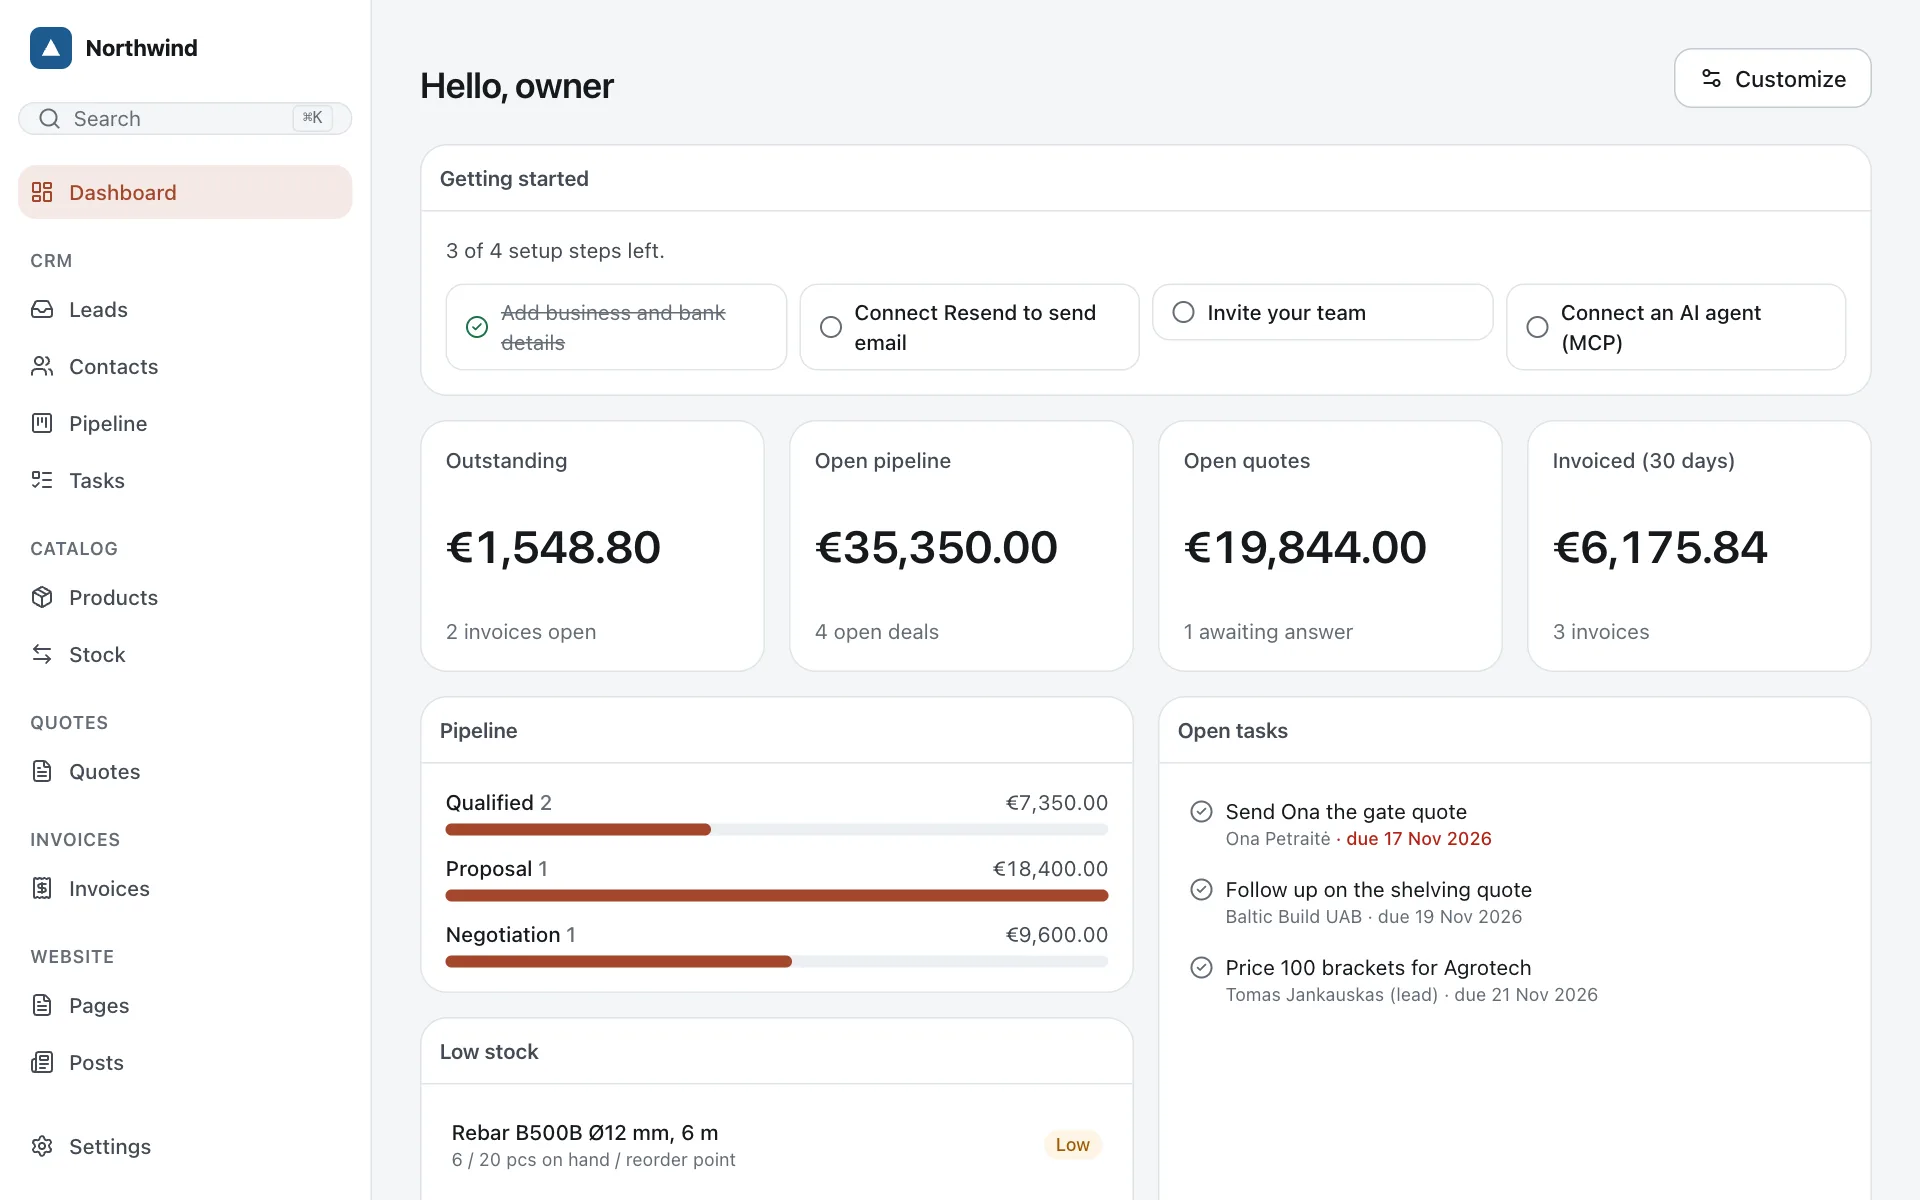
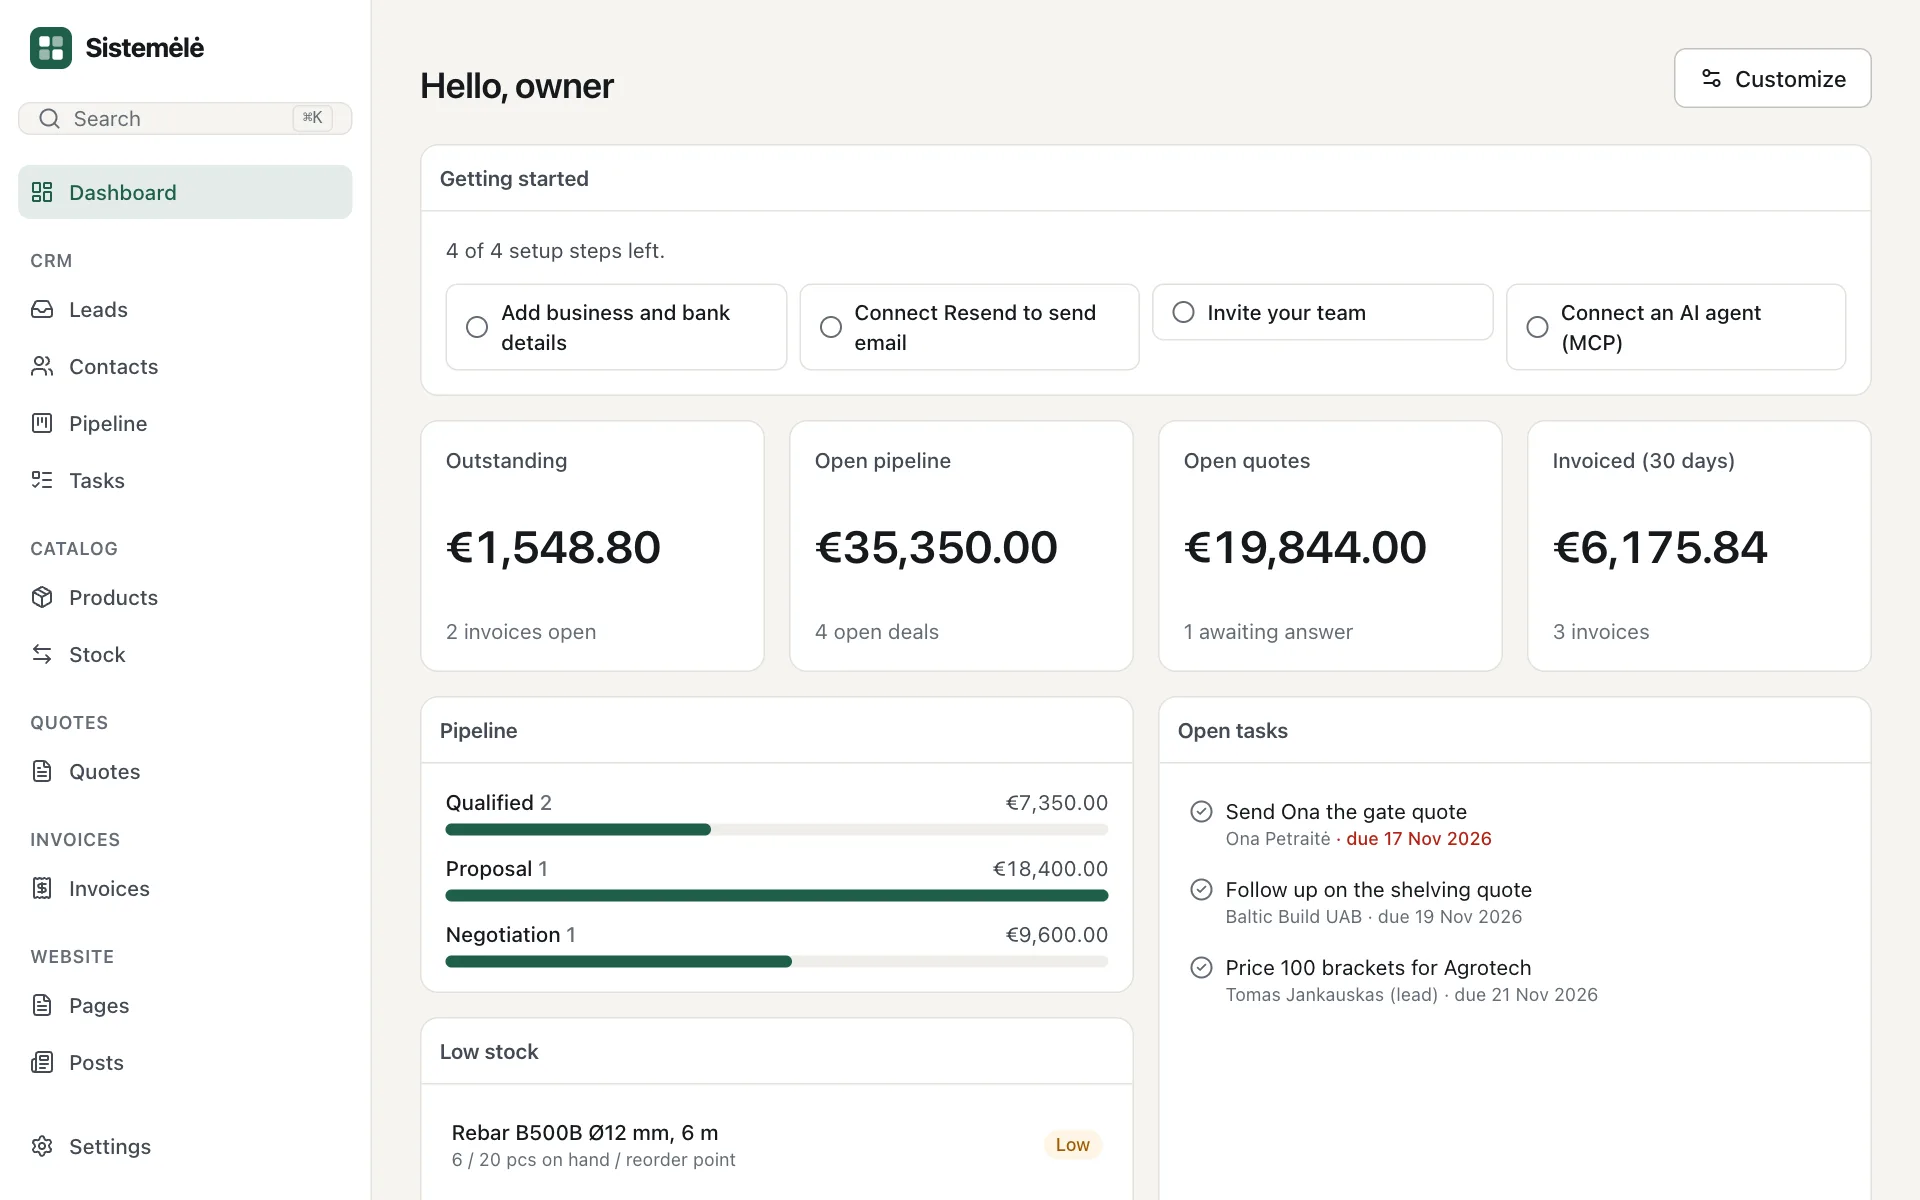
Make the demo the package landing page and allow indexing
- Demo seed: Sistemėlė name, wordmark logo and green brand; an About page
  about the project; invoice seller snapshots renamed to "Sistemėlė demo"
- ALLOW_INDEXING=1 lets search engines index public pages outside
  production; the demo sets it. Dashboard, API and private links stay noindex.
- Starter home meta title for search; screenshots recaptured with the new
  branding

diff --git a/tests/demo.test.ts b/tests/demo.test.ts
@@ -73,6 +73,27 @@ describe("demo mode", () => {
   });
 });
 
+describe("indexing", () => {
+  it("lets search engines index a public demo with ALLOW_INDEXING, but never the dashboard", async () => {
+    const t = await createTestApp({ env: { DEMO_MODE: "1", APP_ENV: "demo", ADMIN_EMAILS: "", ALLOW_INDEXING: "1" } });
+    const robots = await (await t.request("/robots.txt")).text();
+    expect(robots).toContain("Allow: /");
+    expect(robots).toContain("Disallow: /app");
+    const home = await t.request("/");
+    expect(home.headers.get("x-robots-tag")).toBeNull();
+    expect(await home.text()).toContain('<meta name="robots" content="index, follow, max-image-preview:large"/>');
+    expect((await t.request("/app/login")).headers.get("x-robots-tag")).toContain("noindex");
+    await t.dispose();
+  });
+
+  it("keeps a demo without ALLOW_INDEXING out of search engines", async () => {
+    const t = await createTestApp({ env: { DEMO_MODE: "1", APP_ENV: "demo", ADMIN_EMAILS: "" } });
+    expect(await (await t.request("/robots.txt")).text()).toBe("User-agent: *\nDisallow: /\n");
+    expect((await t.request("/")).headers.get("x-robots-tag")).toContain("noindex");
+    await t.dispose();
+  });
+});
+
 describe("outside demo mode", () => {
   let t: TestApp;
   beforeAll(async () => {

diff --git a/src/worker/app.ts b/src/worker/app.ts
@@ -4,7 +4,7 @@ import { authRoutes } from "./auth/routes";
 import { userFromApiToken, userFromSession } from "./auth/sessions";
 import { createModuleContext } from "./context";
 import { coreRoutes } from "./core/routes";
-import { appOrigin, isDevelopment, type AppEnv } from "./env";
+import { appOrigin, isDevelopment, isIndexable, type AppEnv } from "./env";
 import { Db } from "./lib/db";
 import { forbidden, handleError, unauthorized } from "./lib/errors";
 import { mcpRoutes } from "./mcp/routes";
@@ -86,8 +86,8 @@ const securityHeaders: MiddlewareHandler<AppEnv> = async (c, next) => {
     }
   }
   if (isApi(c.req.path)) headers.set("Cache-Control", headers.get("Cache-Control") ?? "no-store");
-  // Demos, previews and development copies are never indexed (robots.txt also disallows them).
-  if (c.env.APP_ENV !== "production") headers.set("X-Robots-Tag", "noindex, nofollow");
+  // Previews and development copies are never indexed (robots.txt also disallows them), unless ALLOW_INDEXING is set.
+  if (!isIndexable(c.env)) headers.set("X-Robots-Tag", "noindex, nofollow");
 };
 
 /** The dashboard SPA shell for /app and /app/*. */

diff --git a/src/worker/env.ts b/src/worker/env.ts
@@ -16,6 +16,8 @@ export interface Env {
   TURNSTILE_SECRET_KEY?: string;
   /** "1" turns the installation into a public demo: one-click sign-in, no email, hourly reset. See docs/deployment.md. */
   DEMO_MODE?: string;
+  /** "1" lets search engines index public pages outside production (e.g. a public demo). The dashboard and private links stay noindex. */
+  ALLOW_INDEXING?: string;
 }
 
 export interface AppVariables {
@@ -32,6 +34,11 @@ export function isDevelopment(env: Pick<Env, "APP_ENV">): boolean {
 /** Public demo: anyone can open the dashboard as the demo owner; data is reset by the Cron Trigger. */
 export function isDemo(env: Pick<Env, "DEMO_MODE">): boolean {
   return env.DEMO_MODE === "1" || env.DEMO_MODE === "true";
+}
+
+/** Public pages may be indexed: production, or any environment with ALLOW_INDEXING=1. */
+export function isIndexable(env: Pick<Env, "APP_ENV" | "ALLOW_INDEXING">): boolean {
+  return env.APP_ENV === "production" || env.ALLOW_INDEXING === "1" || env.ALLOW_INDEXING === "true";
 }
 
 export function appOrigin(env: Pick<Env, "APP_URL">): string {

diff --git a/src/worker/site/discovery.ts b/src/worker/site/discovery.ts
@@ -1,7 +1,7 @@
 import { Hono } from "hono";
 import type { ServerModule, SitemapEntry } from "@/modules/types.server";
 import { getContext } from "../context";
-import { appOrigin, type AppEnv } from "../env";
+import { appOrigin, isIndexable, type AppEnv } from "../env";
 import { allTools } from "../mcp/routes";
 import { siteContent } from "./content";
 
@@ -28,9 +28,8 @@ export function discoveryRoutes(modules: readonly ServerModule[]) {
 
     .get("/robots.txt", (c) => {
       const origin = appOrigin(c.env);
-      const isProduction = c.env.APP_ENV === "production";
-      // Preview and development deployments are never indexed.
-      const body = isProduction
+      // Preview and development deployments are never indexed, unless ALLOW_INDEXING is set (a public demo).
+      const body = isIndexable(c.env)
         ? `User-agent: *\nAllow: /\nDisallow: /app\nDisallow: /api/\nDisallow: /q/\nDisallow: /i/\n\nSitemap: ${origin}/sitemap.xml\n`
         : "User-agent: *\nDisallow: /\n";
       return c.body(body, 200, { "Content-Type": "text/plain; charset=utf-8" });

diff --git a/src/worker/site/starter-home.tsx b/src/worker/site/starter-home.tsx
@@ -326,7 +326,7 @@ export function starterHome({ businessName, origin, demo, modules, sections }: {
   );
 
   return {
-    title: businessName,
+    title: "Practical starter kit and admin panel for AI-native projects",
     description: `${businessName} runs on Sistemėlė, a practical starter kit and admin panel for AI-native projects: website, admin panel and MCP on one Cloudflare Worker.`,
     body,
     markdown,

diff --git a/CHANGELOG.md b/CHANGELOG.md
@@ -2,6 +2,7 @@
 
 ## Unreleased
 
+- The public demo at sistemele.aimantas.com is the package's landing page: it carries the Sistemėlė name and logo, an About page about the project, and may be indexed. New `ALLOW_INDEXING=1` setting lets search engines index public pages outside production; the dashboard, API and private links stay `noindex`.
 - Positioning: "Don't ask your agent to reinvent the wheel" — a practical starter kit and admin panel for AI-native projects. README, PRODUCT, AGENTS, the skill and the website (`website/`) lead with it; new `docs/extending.md` with best practices for extending.
 - CRM leads inbox: website messages arrive as leads (new → contacted → qualified, or disqualified with a reason), with owners, sources, estimated values and follow-up dates; logging a call, email or meeting marks a new lead contacted; one-step conversion into a contact (reused by email) and a deal, moving the timeline along. Filters by status, owner, source and due follow-ups; dashboard widget; metrics for open leads, new leads and lead conversion; MCP tools `crm_list_leads`, `crm_get_lead`, `crm_create_lead`, `crm_update_lead`, `crm_convert_lead`.
 - CRM pipeline stages are configurable (Pipeline → Stages): add, rename, reorder and remove open stages, win probability per stage, weighted pipeline metric. Deals gain owners and lost reasons; dropping a deal on Lost asks why; a deal dialog edits title, value, close date, owner and stage. MCP tools `crm_list_stages`, `crm_create_stage`, `crm_update_stage`, `crm_update_deal`.

diff --git a/docs/deployment.md b/docs/deployment.md
@@ -90,6 +90,8 @@ A demo is an installation anyone can open without an account. Set `DEMO_MODE` to
 - sends `X-Robots-Tag: noindex, nofollow` (every non-production `APP_ENV` does) and a disallow-all `robots.txt`;
 - on each Cron Trigger, empties every table (users and sessions included) and reloads `seed/*.sql` (`src/worker/demo.ts`).
 
+A demo is kept out of search engines unless you set `ALLOW_INDEXING` to `"1"`. The public demo at sistemele.aimantas.com is also the package's landing page, so it sets it; the dashboard, API and private quote/invoice links stay `noindex` either way.
+
 The `demo` environment in `wrangler.jsonc` defines a separate Worker, D1 database, custom domain and hourly trigger. Before running these commands, set `database_id` to a dedicated demo database and configure `routes` and `APP_URL` for your domain.
 
 ```bash

diff --git a/docs/seo.md b/docs/seo.md
@@ -21,7 +21,7 @@ stale-while-revalidate.
 | --- | --- |
 | `/sitemap.xml` | Core pages + every module's `sitemap()` (e.g. public products, live pages and posts with `lastmod`). |
 | `/blog/feed.xml` | RSS for the latest 20 posts (content module). |
-| `/robots.txt` | Production: allow all, disallow `/app`, `/api/`, `/q/`, `/i/`, link to sitemap. Any other `APP_ENV`: disallow all. |
+| `/robots.txt` | Production, or any environment with `ALLOW_INDEXING=1` (e.g. a public demo): allow all, disallow `/app`, `/api/`, `/q/`, `/i/`, link to sitemap. Otherwise: disallow all, and every response carries `X-Robots-Tag: noindex, nofollow`. |
 | `/llms.txt` | Business summary, public pages, how to send a request, MCP tool list. |
 
 ## Rules for new pages

diff --git a/README.md b/README.md
@@ -27,7 +27,7 @@ Browser ─┬─ /            server-rendered public site (SEO, no client JS)
 
 **Deploy to Cloudflare:** the button copies the code to your GitHub, creates the D1 database, asks for your email (the owner) and a [Resend](https://resend.com) key, and deploys. Every push redeploys.
 
-**Try the demo:** [sistemele.aimantas.com](https://sistemele.aimantas.com). One-click sign-in as the demo owner, sample data, resets every hour, no email sent.
+**Website and live demo:** [sistemele.aimantas.com](https://sistemele.aimantas.com). The site runs on Sistemėlė itself; one click opens the admin panel as the demo owner, with sample data that resets every hour. No email is sent.
 
 **Run it locally** (Node 22+):
 
